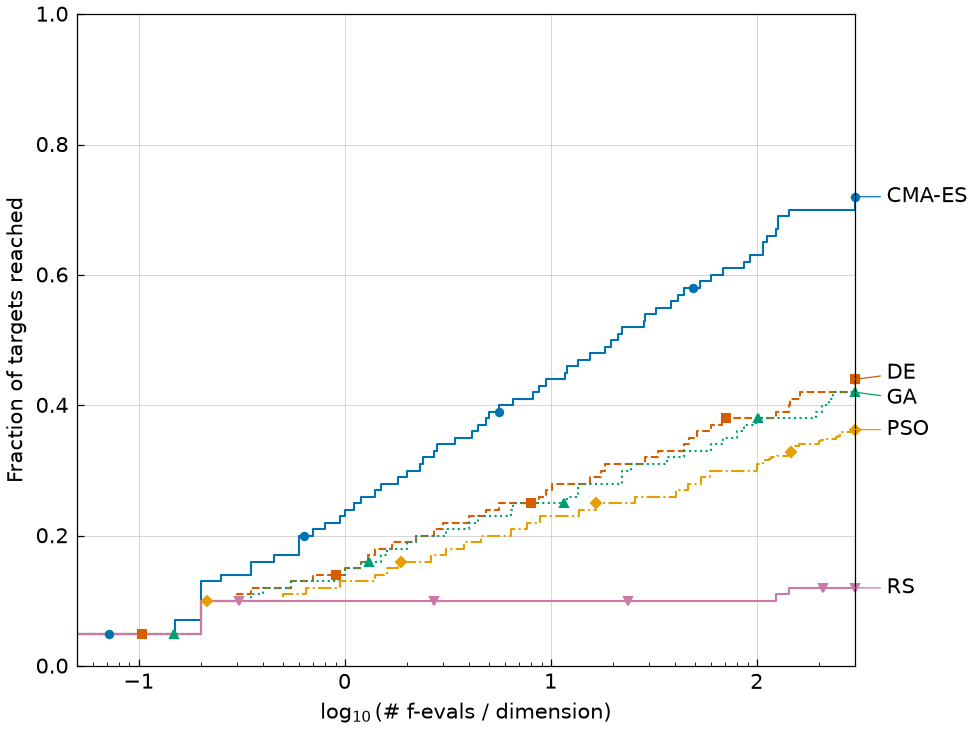
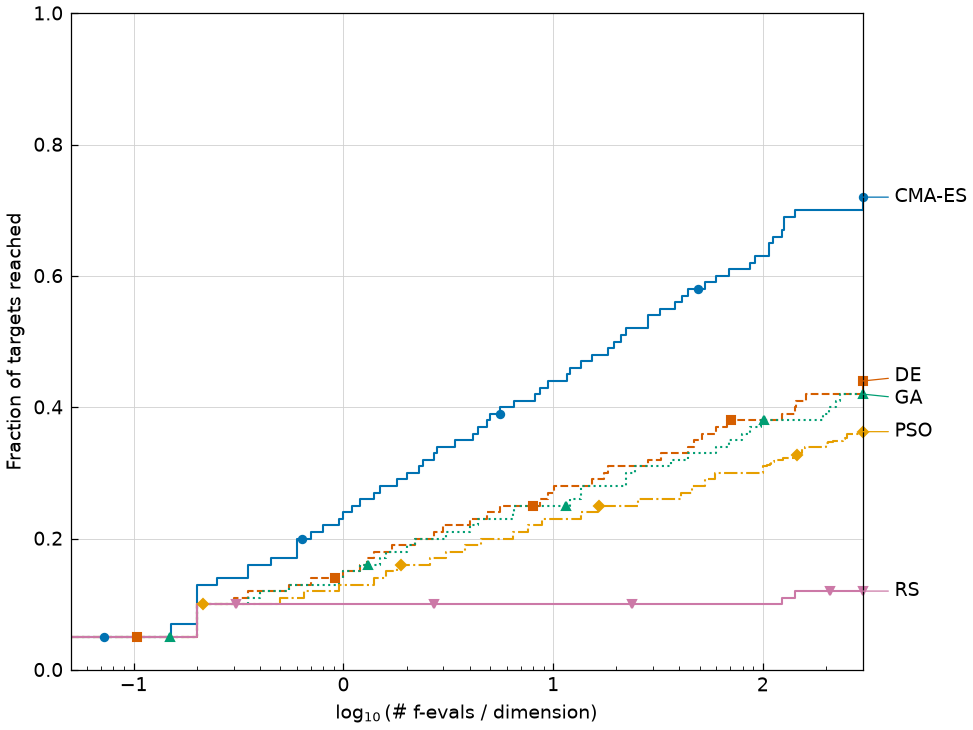
I19b: generic preset caption 9 pt; STIX documented for ACM (#51)
* I19b: generic preset caption size 9pt; document STIX as the ACM stand-in

* I19b: CHANGELOG entry for the generic caption size

---------

diff --git a/src/iohinspector/figures/venues.py b/src/iohinspector/figures/venues.py
@@ -74,7 +74,8 @@ VENUES = {
     ),
     # acmart.cls, sigconf: geometry paperwidth 8.5in with inner and outer 54pt,
     # so \textwidth 506.295pt; columnsep 2pc, so \columnwidth 241.1475pt;
-    # default 9pt; Linux Libertine; captions at the body size.
+    # default 9pt; Linux Libertine (not shipped with matplotlib, so the render
+    # uses STIXGeneral, a Times design, as a stand-in); captions at the body size.
     "acm": Venue(
         name="ACM sigconf",
         document_class="acmart[sigconf]",
@@ -102,7 +103,9 @@ VENUES = {
     ),
     # article.cls (size10.clo), twocolumn on letter paper: \textwidth is
     # \paperwidth - 2in = 469.755pt rounded down to 469pt, \columnsep 10pt, so
-    # \columnwidth 229.5pt; captions at the body size, 10pt. Not tied to a
+    # \columnwidth 229.5pt. article sets captions at the body size; the preset
+    # takes \small, 9pt, like the other presets (LNCS and ACM 9pt, IEEE and
+    # Elsevier 8pt), so figure text stays below the body text. Not tied to a
     # venue's font, so matplotlib's default sans-serif.
     "generic": Venue(
         name="Generic (article)",
@@ -113,7 +116,7 @@ VENUES = {
         mpl_font="DejaVu Sans",
         mathtext="dejavusans",
         size=10,
-        caption_size=10,
+        caption_size=9,
     ),
 }
 

diff --git a/CHANGELOG.md b/CHANGELOG.md
@@ -127,6 +127,8 @@
 
 ### Changed
 
+- The generic venue preset (`figures.VENUES["generic"]`) sets captions and figure text at 9 pt (`\small`), not 10 pt, in line with the other presets; generic figures render slightly smaller. ACM's Linux Libertine stays rendered with STIXGeneral as a stand-in.
+
 - The default of `get_ecdf`, `get_ecdf_auc` (targets, continuum ECDF and AOCC),
   `get_portfolio_ecdf` and `get_shapley_values` is now `stopped="restart"`: a run
   that stopped before a budget is continued by simulated restarts (EC-7), as in
